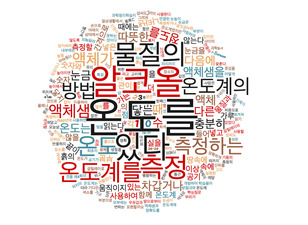
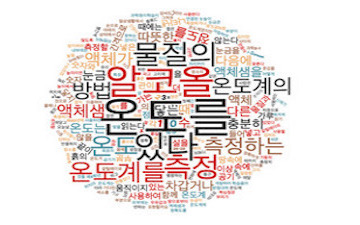
wordcloud ui 수정

Changed region(s): [[0.1461, 0.0622, 0.8182, 0.9022]]

diff --git a/news/src/main/resources/static/js/main.js b/news/src/main/resources/static/js/main.js
@@ -229,8 +229,8 @@ var main = (function($) { var _ = {
 					.on('touchmove', function(event) {
 
 						// No start position recorded? Bail.
-							if (_.$viewer.touchPosX === null
-							||	_.$viewer.touchPosY === null)
+							if (_.$viewer.touchPosX == null
+							||	_.$viewer.touchPosY == null)
 								return;
 
 						// Calculate stuff.
@@ -283,8 +283,8 @@ var main = (function($) { var _ = {
 								return;
 
 						// No start position recorded? Bail.
-							if (_.$main.touchPosX === null
-							||	_.$main.touchPosY === null)
+							if (_.$main.touchPosX == null
+							||	_.$main.touchPosY == null)
 								return;
 
 						// Calculate stuff.
@@ -415,7 +415,8 @@ var main = (function($) { var _ = {
                     $slideImage: null,
 					$slideElement: null,
                     $slideCaption: null,
-					$slideCanvas: null,
+					// $slideCanvas: null,
+                    $slideCanvasContainer: null,
                     url: $thumbnail.attr('href'),
                     loaded: false
                 };
@@ -426,32 +427,41 @@ var main = (function($) { var _ = {
                 // Slide.
 
                 // Create elements.
-                s.$slide = $('<div class="slide"><div class="caption"></div><div class="element"></div></div>');
+                // s.$slide = $('<div class="slide"><canvas id="canvas""></canvas><div class="caption"></div></div>');
+                s.$slide = $('<div class="slide">' +
+								'<div class="canvasContainer">' +
+									'<canvas id="canvas"></canvas>' +
+								'</div>' +
+								'<div class="caption"></div>' +
+							'</div>');
+
 
                 // Image.
                 s.$slideImage = s.$slide.children('.image');
-                s.$slideElement = s.$slide.children(".element");
+                // s.$slideElement = s.$slide.children(".element");
+                // s.$slideCanvas = s.$slide.children('#canvas');
+				s.$slideCanvasContainer = s.$slide.children('.canvasContainer');
 
                 //_.$thumbnails.children().eq(0).$slideElement.load("../html/sankey.html");
 				//s.$slideElement.load("../html/sankey.html");
 				switch (index) {
 					case 0:
-                        s.$slideElement.load("../html/main.html");
+                        // s.$slideElement.load("../html/main.html");
                         break;
 
 					case 1:
-                        s.$slideElement.load("../html/sankey.html");
+                        // s.$slideElement.load("../html/sankey.html");
                         break;
 
                     case 2:
-                        s.$slideElement.load("../html/line.html");
+                        // s.$slideElement.load("../html/line.html");
                         break;
                 }
 
-                // Set background stuff.
-                s.$slideImage
-                    .css('background-image', '')
-                    .css('background-position', ($thumbnail.data('position') || 'center'));
+                // // Set background stuff.
+                // s.$slideImage
+                //     .css('background-image', '')
+                //     .css('background-position', ($thumbnail.data('position') || 'center'));
 
                 // Caption.
                 s.$slideCaption = s.$slide.find('.caption');
@@ -492,7 +502,7 @@ var main = (function($) { var _ = {
 		// Show first slide if xsmall isn't active.
 			breakpoints.on('>xsmall', function() {
 
-				if (_.current === null)
+				if (_.current == null)
 					_.switchTo(0, true);
 
 			});
@@ -504,6 +514,7 @@ var main = (function($) { var _ = {
 	 * @param {integer} index Index.
 	 */
 	switchTo: function(index, noHide) {
+        console.log("index : " + index + ", noHide : " + noHide + ", currentSlide : " + _.current);
 
 		// Already at index and xsmall isn't active? Bail.
 			if (_.current == index
@@ -522,11 +533,12 @@ var main = (function($) { var _ = {
 			&&	breakpoints.active('<=medium'))
 				_.hide();
 
+
 		// Get slides.
 			var	oldSlide = (_.current !== null ? _.slides[_.current] : null),
 				newSlide = _.slides[index];
 
-		// Update current.
+        // Update current.
 			_.current = index;
 
 		// Deactivate old slide (if there is one).
@@ -539,6 +551,10 @@ var main = (function($) { var _ = {
 				// Slide.
 					oldSlide.$slide.removeClass('active');
 
+					// 화면 초기화
+					var canvas = oldSlide.$slideCanvasContainer.children()[0];
+					var context = canvas.getContext('2d');
+					context.clearRect(0, 0, canvas.width, canvas.height);
 			}
 
 		// Activate new slide.
@@ -552,8 +568,9 @@ var main = (function($) { var _ = {
 				var f = function() {
 
 					// Old slide exists? Detach it.
-						if (oldSlide)
-							oldSlide.$slide.detach();
+						if (oldSlide) {
+                            oldSlide.$slide.detach();
+						}
 
 					// Attach new slide.
 						newSlide.$slide.appendTo(_.$viewer);
@@ -620,6 +637,18 @@ var main = (function($) { var _ = {
 					else
 						window.setTimeout(f, _.settings.slideDuration);
 
+					// 새로운 슬라이드가 로딩되고 수행하려는 함수
+					if (index == 0) {	// wordcloud load
+                        // var canvasContainer = newSlide.$slide.children(".canvasContainer")[0];
+						// var canvas = canvasContainer.children();
+                        // var canvasContainer = newSlide.$slideCanvasContainer.children()[0];
+						// console.log(canvasContainer);
+						// console.log(canvas);
+                        // _.wordcloud_load(newSlide.$slide.children("#canvas")[0]);
+
+						// canvas를 매개변수로 넘겨줌
+						_.wordcloud_load(newSlide.$slideCanvasContainer.children()[0]);
+					}
 	},
 
 	/**
@@ -747,6 +776,61 @@ var main = (function($) { var _ = {
 			_.hide();
 
 	},
+
+	wordcloud_load: function (canvas) {
+
+        var data = null;
+        var arr = [];
+        var parent = document.getElementById("viewer");
+
+        $.ajax({
+            url: "/WordCloud",
+            type: "POST",
+            dataType: "json",
+            contentType: "application/json",
+            data: JSON.stringify(data),
+            success: function(result) {
+
+                // arr = [];
+                arr.length = 0;
+
+                for (var i = 0; i < result.length; i++) {
+                    arr.push( [ result[i].word,
+                        result[i].totalWeight,
+                        result[i].idList ] );
+                }
+
+                var options = {
+                    list : arr,
+                    // gridSize: Math.round(2 * parent.offsetHeight / 1024),
+                    // weightFactor: function (size) {
+                    //     return Math.pow(size, 2) * parent.offsetWidth / 1024;
+                    // },
+                    weightFactor: 5,
+                    minSize: 3,
+                    figPath: "circle",
+                    // backgroundColor: "white",
+                    click: function(item) {
+                        alert("word : " + item[0] + " totalWeight : " + item[1]);
+                        location.href= "/mainNewsList?"+item[2];
+                        
+                        //popup 창
+						// window.open("/mainNewsList?"+item[2], "newsList", 'height=' + screen.height + ',width=' + screen.width + 'fullscreen=yes')
+                    }
+                }
+
+
+                canvas.width = parent.offsetWidth;
+                canvas.height = parent.offsetHeight;
+
+                WordCloud(canvas, options);
+            },
+            error : function () {
+                alert("fail");
+            }
+        })
+
+    },
 
 }; return _; })(jQuery); main.init();
 

diff --git a/news/src/main/resources/static/css/main.css b/news/src/main/resources/static/css/main.css
@@ -1203,6 +1203,23 @@ input, select, textarea {
 			}
 
 
+
+			/*#viewer .slide #canvas {*/
+				/*!*-moz-transition: opacity 0.5s ease-in-out;*!*/
+				/*!*-webkit-transition: opacity 0.5s ease-in-out;*!*/
+				/*!*-ms-transition: opacity 0.5s ease-in-out;*!*/
+				/*!*transition: opacity 0.5s ease-in-out;*!*/
+				/*!*position: absolute;*!*/
+				/*!*top: 0%;*!*/
+				/*!*left: 0%;*!*/
+				/*!*width: 100%;*!*/
+				/*!*height: 100%;*!*/
+				/*!*background-repeat: no-repeat;*!*/
+				/*!*background-position: center;*!*/
+				/*!*background-size: cover;*!*/
+				/*!*opacity: 0;*!*/
+			/*}*/
+
 			#viewer .slide:before {
 				-moz-animation: spinner 1s linear infinite;
 				-webkit-animation: spinner 1s linear infinite;

diff --git a/news/src/main/resources/templates/index.html b/news/src/main/resources/templates/index.html
@@ -8,7 +8,7 @@
 	<head>
 		<script src="https://ajax.googleapis.com/ajax/libs/jquery/3.3.1/jquery.min.js"></script>
 		<script th:src="@{/js/lib/wordcloud2.js}"></script> <!-- 추가 -->
-		<title>Lens by HTML5 UP</title>
+		<title>R뉴스</title>
 		<meta charset="utf-8" />
 		<meta name="viewport" content="width=device-width, initial-scale=1, user-scalable=no" />
 		<link rel="stylesheet" th:href="@{/css/main.css}" />

diff --git a/news/src/main/java/com/team/news/Scheduler/CronTable.java b/news/src/main/java/com/team/news/Scheduler/CronTable.java
@@ -53,39 +53,40 @@ public class CronTable {
 //
 //    }
 //
-    //서버 시작하고 10초후에 실행 후 30분마다 실행
-    @Scheduled(initialDelay = 10000, fixedDelay = 1800000)
-    public void Job() {
 
-        System.out.println("--CronTable start--");
-        DateTimeFormatter dateFormat = DateTimeFormatter.ofPattern("yyyy/MM/dd HH:mm");
-        LocalDateTime now = LocalDateTime.now();    // 현재 시간
-
-        String fromTime = dateFormat.format(now.minusHours(3));         // 3시간 전
-        String toTime = dateFormat.format(now.minusHours(0));           // 0시간 전
-        String MorphologicalTime = dateFormat.format(now.minusMinutes(40));
-
-        logger.info("web crawling start");
-        CrawlingNaver crawlingNaver = new CrawlingNaver(newsRepository);
-        crawlingNaver.start();
-        logger.info("web crawling end");
-
-        logger.info("web morphological start");
-        Morphological morphological = new Morphological();
-        morphological.analysis(newsRepository, mainNewsListRepository, MorphologicalTime);
-        logger.info("web morphological end");
-
-        logger.info("web sankey_major_analysis start");
-        morphological.sankey_major_analysis(newsRepository,graphRepository);
-        logger.info("web sankey_major_analysis end");
-        logger.info("web sankey_minor_analysis start");
-        morphological.sankey_minor_analysis(newsRepository,graphRepository,mongoTemplate);
-        logger.info("web sankey_minor_analysis end");
-        logger.info("web sankey_sports_analysis start");
-        morphological.sankey_sports_analysis(newsRepository,graphRepository,mongoTemplate);
-        logger.info("web sankey_sports_analysis end");
-
-        System.out.println("--CronTable end--");
-
-    }
+//    //서버 시작하고 10초후에 실행 후 30분마다 실행
+//    @Scheduled(initialDelay = 10000, fixedDelay = 1800000)
+//    public void Job() {
+//
+//        System.out.println("--CronTable start--");
+//        DateTimeFormatter dateFormat = DateTimeFormatter.ofPattern("yyyy/MM/dd HH:mm");
+//        LocalDateTime now = LocalDateTime.now();    // 현재 시간
+//
+////        String fromTime = dateFormat.format(now.minusHours(3));         // 3시간 전
+////        String toTime = dateFormat.format(now.minusHours(0));           // 0시간 전
+//        String MorphologicalTime = dateFormat.format(now.minusMinutes(40));
+//
+//        logger.info("web crawling start");
+//        CrawlingNaver crawlingNaver = new CrawlingNaver(newsRepository);
+//        crawlingNaver.start();
+//        logger.info("web crawling end");
+//
+//        logger.info("web morphological start");
+//        Morphological morphological = new Morphological();
+//        morphological.analysis(newsRepository, mainNewsListRepository, MorphologicalTime);
+//        logger.info("web morphological end");
+//
+//        logger.info("web sankey_major_analysis start");
+//        morphological.sankey_major_analysis(newsRepository,graphRepository);
+//        logger.info("web sankey_major_analysis end");
+//        logger.info("web sankey_minor_analysis start");
+//        morphological.sankey_minor_analysis(newsRepository,graphRepository,mongoTemplate);
+//        logger.info("web sankey_minor_analysis end");
+//        logger.info("web sankey_sports_analysis start");
+//        morphological.sankey_sports_analysis(newsRepository,graphRepository,mongoTemplate);
+//        logger.info("web sankey_sports_analysis end");
+//
+//        System.out.println("--CronTable end--");
+//
+//    }
 }

diff --git a/news/src/main/java/com/team/news/WebCrawler/CrawlingNaver.java b/news/src/main/java/com/team/news/WebCrawler/CrawlingNaver.java
@@ -159,7 +159,7 @@ public class CrawlingNaver {
                         }
                         catch (Exception e1) {
                             logger.info("url : " + news.getUrl());
-                            logger.info("news_error : " + e1);
+//                            logger.info("news_error : " + e1);
                             e1.printStackTrace();
                         }
                     }
